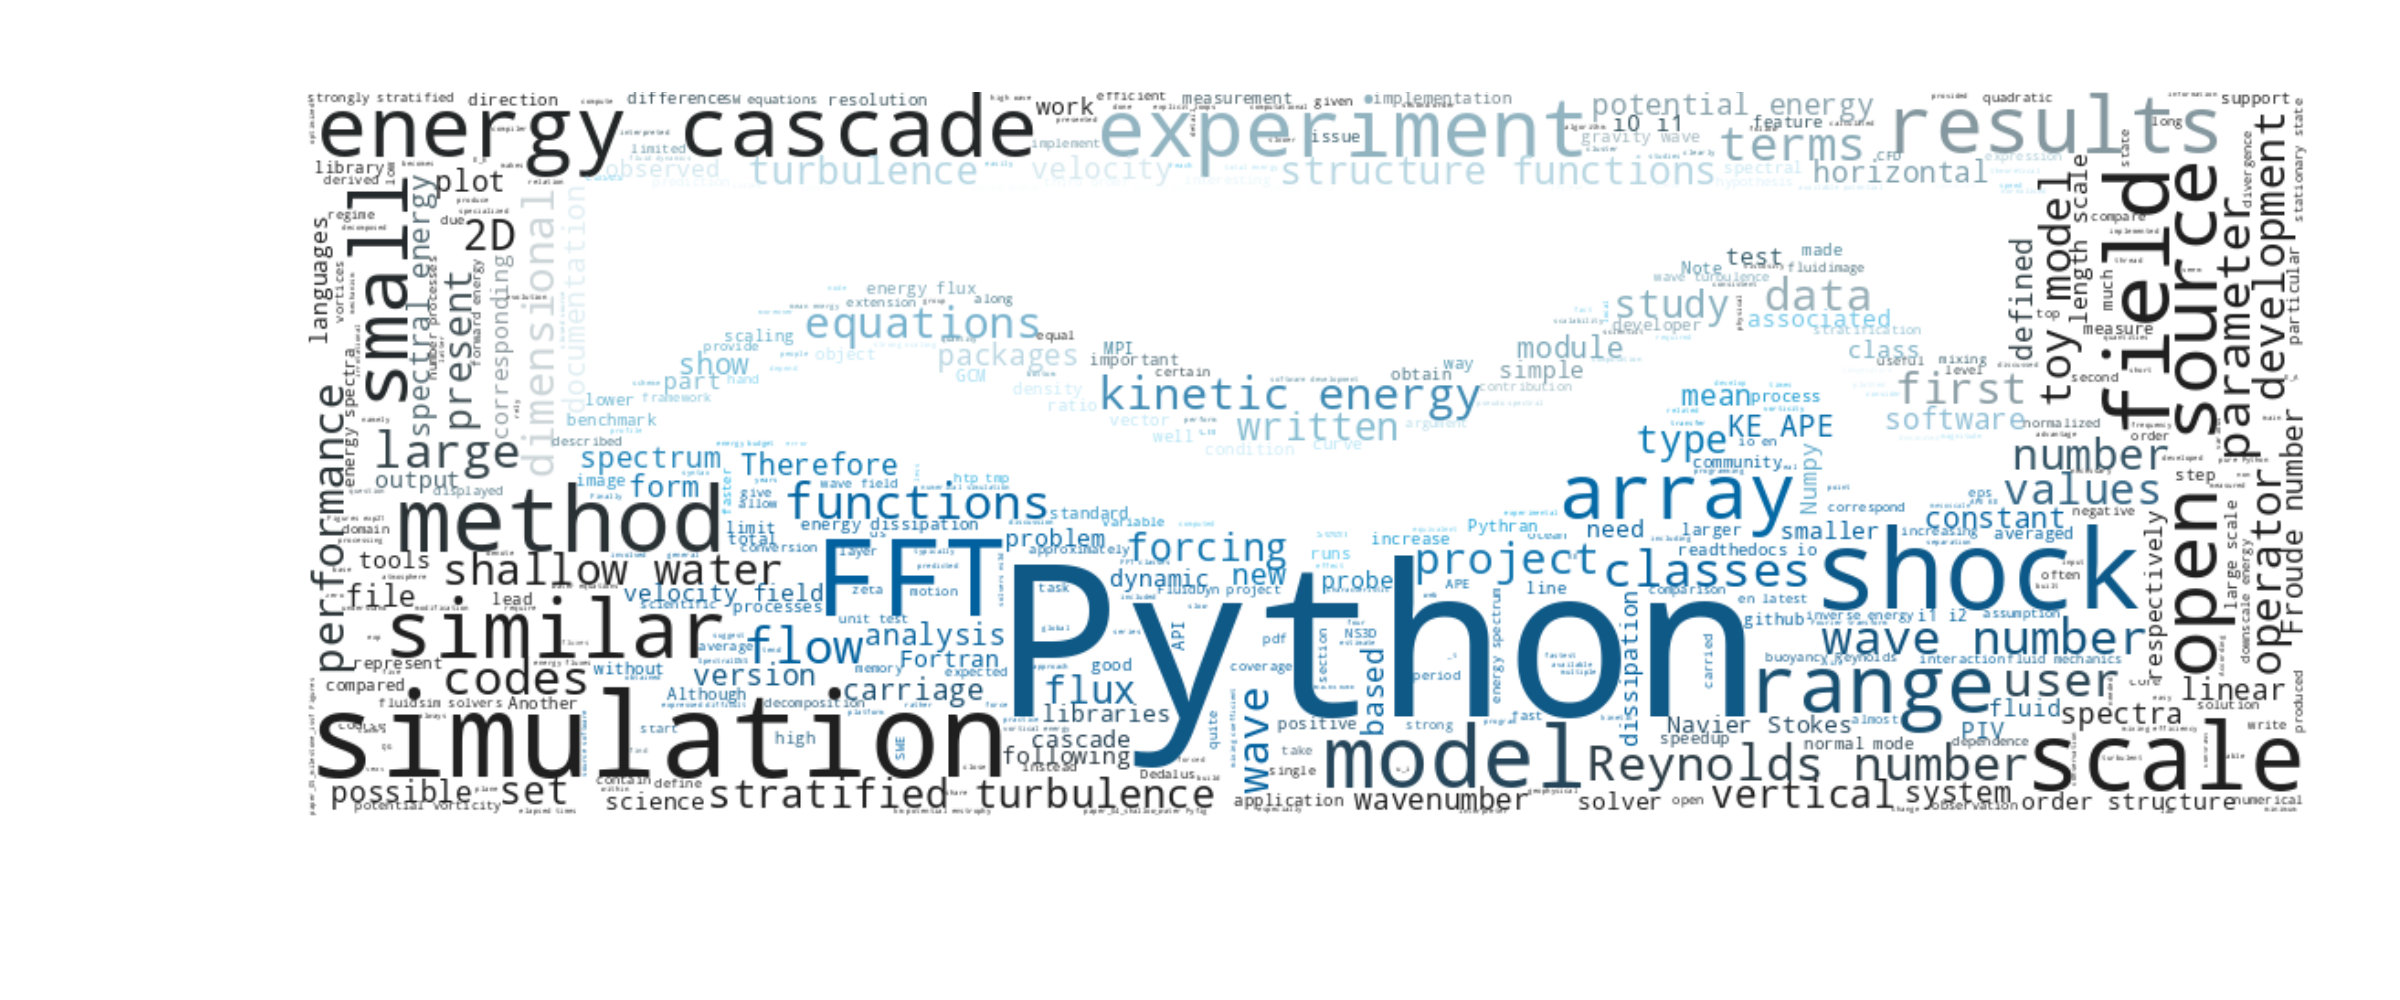
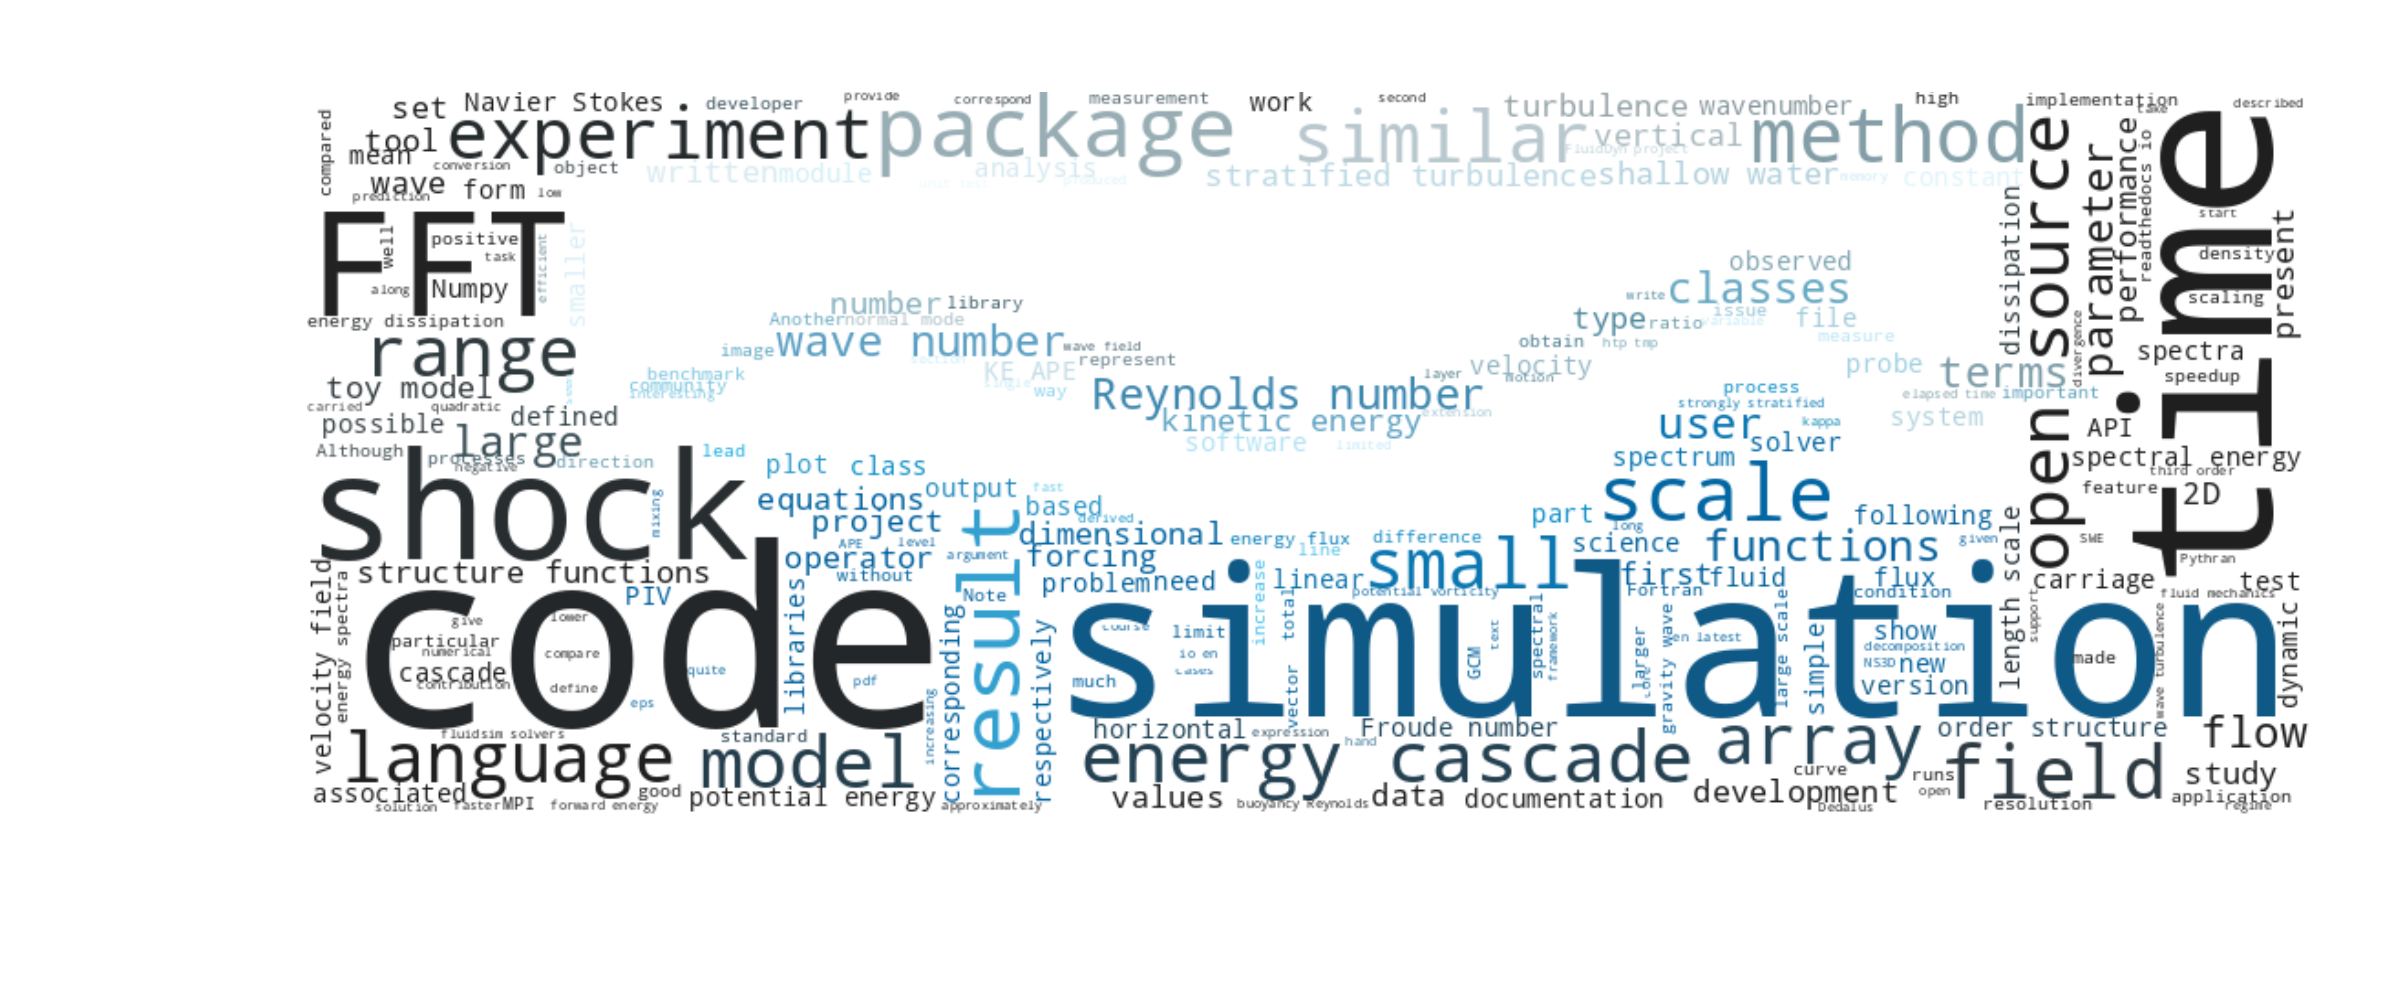
Redo wordcloud and cover

Changed region(s): [[0.125, 0.093, 0.9688, 0.837]]

diff --git a/imgs/wordcloud/plot.py b/imgs/wordcloud/plot.py
@@ -14,7 +14,7 @@ root = cwd.parent.parent
 class args:
     width = 600 * 4
     height = 250 *4
-    max_words = 500
+    max_words = 250
     #  output = None
     #  output = "plot"
     output = cwd / 'wordcloud.png'
@@ -37,18 +37,20 @@ for filename in chain(
 
 
 blacklist = {
-    "code", "package", "language", "one", "use", "time", "tool",
-    "kappa", "using", "used", "Matlab", "emph", "many", "footnote",
+    # "code", "package", "language", "time", "tool", "kappa", "Result",
+    "Matlab", "Python", "github",
+    "one", "use", "i0", "i1", "using", "used", "many",
+    "footnote", "emph", "cm",
     "mathbf", "fnref", "eq", "https", "http", "href", "url", "hat", "theta",
     "will", "Thus", "found", "F_h", "u_c", "two", "end", "org", "cite",
     "item", "begin", "Bmatrix", "textbf", "label", "caption", "partial_t",
     "see", "delta", "figure", "equation", "sim", "run", "different", "value",
     "term", "itemize", "example", "may", "become", "three", "case", "eqnarray",
-    "now", "even", "function",
+    "now", "even", "function", "Therefore",
     "citep", "shown", "pack", "several", "make", "codeinline", "src", "fig",
     "raw", "html", "latex", "bf", "img", "div", "math", "png", "alt", "align",
     "green", "Ding", "link", "nbsp", "cdot", "nabla", "frac", "partial", "eta",
-    "style", "width", "right", "left", "center", "Result", "drawing",
+    "style", "width", "right", "left", "center", "drawing",
 }
 stopwords = set(STOPWORDS).union(blacklist)
 
